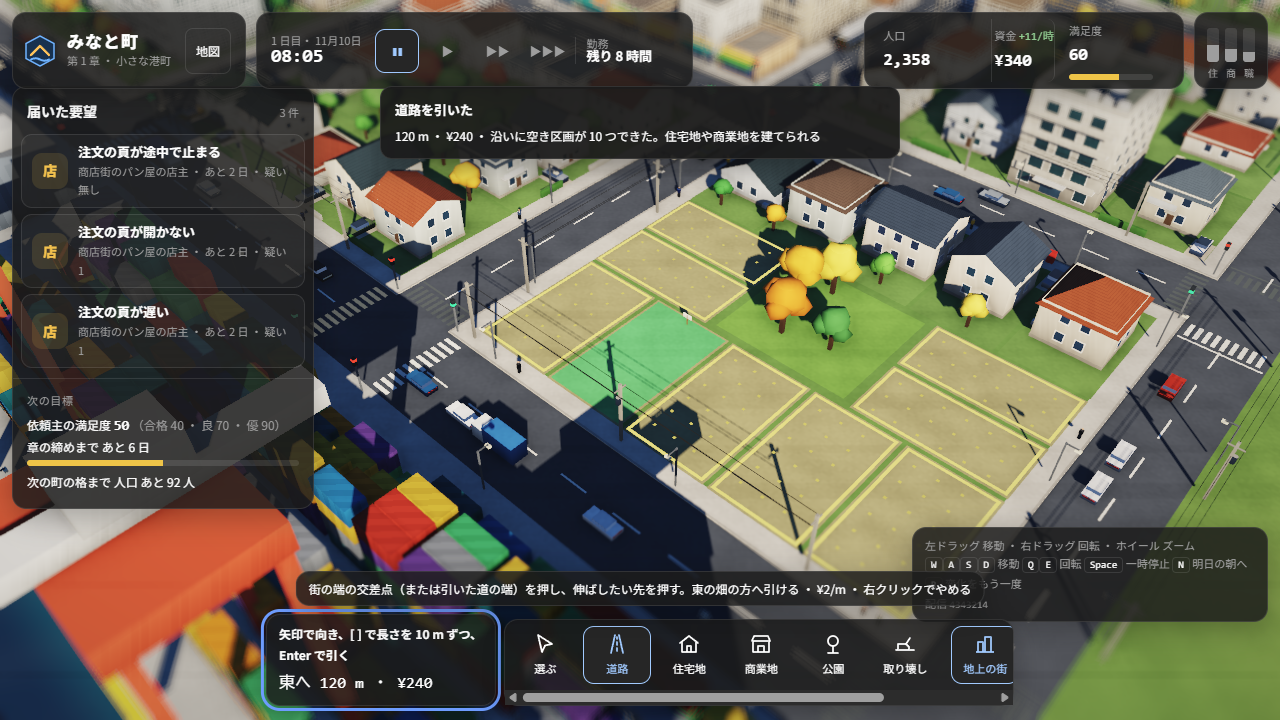
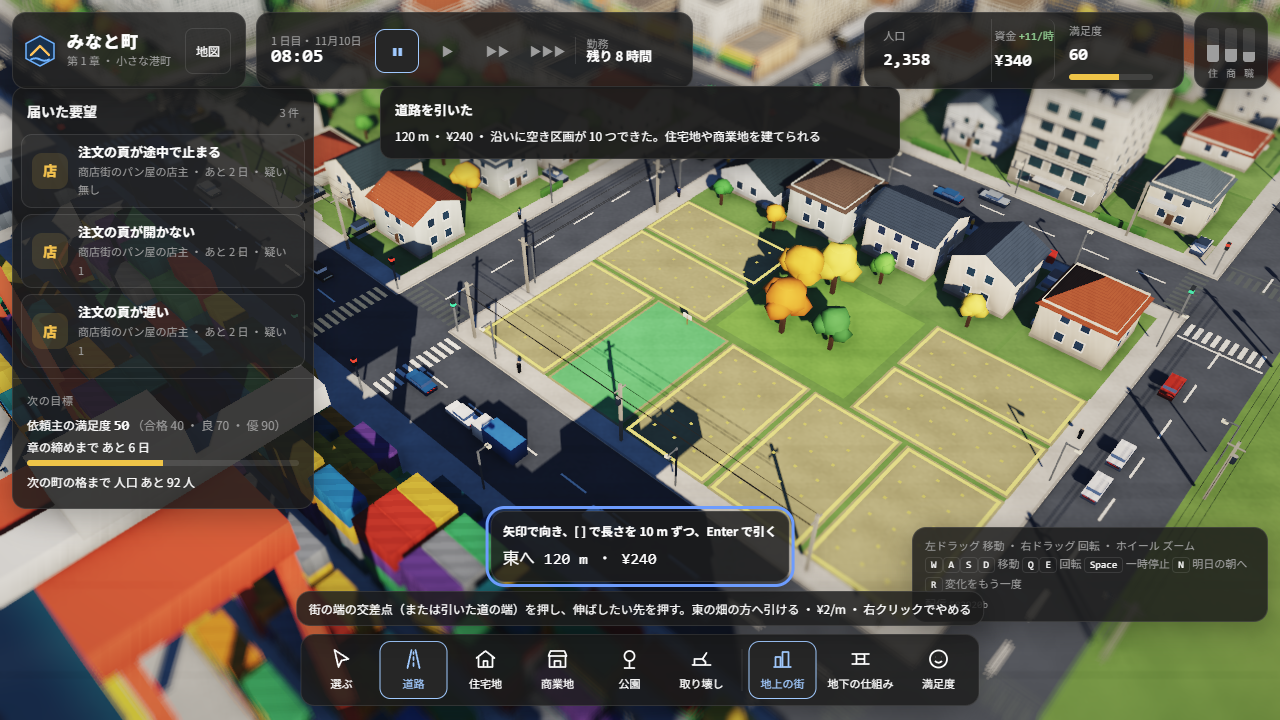
devlearn 段 8 の記録：8-2e（実機で 13 項目、city-standard.md の全項目に ○）・8-2f（利用者に見てほしい所）。利用者の指摘 2 件を済に

Changed region(s): [[0.1875, 0.7028, 0.8125, 1.0]]

diff --git a/devlearn/docs/progress/phase-8.md b/devlearn/docs/progress/phase-8.md
@@ -1,6 +1,24 @@
 # 段 8　ゲームの実装（港町）
 
-状態: **途中**（2026-11-11 に始めた）
+状態: **済**（2026-11-11 に始め、2026-11-12 に終えた）
+
+## 利用者に見てほしい所（8-2f。D-20 により止まらずに段 9 へ進んだ）
+
+- 公開 URL の街：<https://devlearn.techcurrybread.workers.dev/town>（トップと地図の「街で遊ぶ」、どの画面でも `G` で行ける）
+- 試作と本番を並べた 5 枚（左が試作、右が本番。`city-standard.md` 第 6 章の角度・時刻）：
+  `shots/phase-8-2e-all-pair.jpg`・`phase-8-2e-plaza-pair.jpg`・`phase-8-2e-harbor-pair.jpg`・`phase-8-2e-night-pair.jpg`・`phase-8-2e-infra-pair.jpg`
+- 携帯の幅（390×844）：`shots/phase-8-2e-mobile-check.png`（街）、`shots/phase-8-2f-mobile-req.png`（要望の板）
+- 見る観点：`city-standard.md` の章立て（1 絵・2 街の動き・3 ゲーム性・4 画面・5 重さ）。下の 8-2e の表に項目ごとの ○／× と確かめ方がある
+- 気づいたことは `docs/decisions.md` の「利用者の指摘」に `- [ ]` で書けば、次の実行が今の段より先に直す
+
+| 全景 | 地下の仕組み |
+|---|---|
+| ![](shots/phase-8-2e-all-pair.jpg) | ![](shots/phase-8-2e-infra-pair.jpg) |
+| 広場 | 港 |
+| ![](shots/phase-8-2e-plaza-pair.jpg) | ![](shots/phase-8-2e-harbor-pair.jpg) |
+| 夜 | 携帯の幅（要望の板） |
+| ![](shots/phase-8-2e-night-pair.jpg) | ![](shots/phase-8-2f-mobile-req.png) |
+
 
 8-2 は決まった順（8-2a → 8-2f）で進める（`plan.md`）。
 
@@ -13,8 +31,8 @@
 | 8-2b 状態の計算を描画から切り離す | 済（2026-11-11、`37cd6b7`〜`cdf5327`） |
 | 8-2c 本番の仕組みにする | 済（2026-11-11、`81f2444`〜`e055ec8`） |
 | 8-2d 検査を足す | 済（2026-11-11） |
-| 8-2e 実機で確かめる | まだ |
-| 8-2f 利用者の確認で止まる | まだ |
+| 8-2e 実機で確かめる | 済（2026-11-12、`cab89c2`〜`582920b`） |
+| 8-2f 利用者に見てもらう材料を残す | 済（2026-11-12。止まらない。D-20） |
 
 ## 8-1　設計の改訂
 
@@ -195,3 +213,102 @@
 - 15.8 の表の「7 日目の資金」は、8-1 の使い捨ての模擬が「8 日目 8:00 の資金から章の報酬を除いた額」を数えていた。同じ所で数えると、3 つの遊び方の下限・上限が全て一致した（948〜2,348・2,648〜6,648・4,648〜9,048）
 - 町の満足度の列は、表が基礎を全て 60 として数えたので、本番（基礎 55〜65）とは ±1 の幅で比べた（本番：61.7〜64.7・62.0〜66.5・62.8〜67.4）
 - 単体テストは全部で 1,302 件。`check`・`lint`・`content:check`・`secrets` が通る
+
+## 8-2e　実機で確かめる
+
+### 先に直した物（利用者の指摘、2026-11-12）
+
+- **街への入口**：トップに「街で遊ぶ：みなと町の町長になる」、地図に「街で遊ぶ：学んだ手を、みなと町の要望で使う」、全体の帯に「街」、街の上の帯に「地図」。
+  `G` は学習 ⇄ 街（街では地図へ、ほかでは街へ。screen-design.md 6 章・10.6）。テスト `src/lib/ui/entrances.test.ts`（先に落ちることを確かめてから直した）
+- **道具でカメラを動かさない**（D-19・V-14）：`setTool` の、道路で東の端へ・住宅地などで空き区画へ飛ぶ 2 行を外した。
+  要望を開いた・応えたときにその建物へ動くのは、指摘どおり残した。キーボードの区画の一覧で ↑↓ を押したときに区画へ動くのは、使う人の操作なので残した（10.6）
+
+### 作った物
+
+- `screen-design.md` 10.6 キーボードだけで道具を使う一覧（使える空き区画・道を引き始められる点。矢印で向き、`[` `]` で長さ、`Enter`）。街に焦点を置いて `Enter` で真ん中の建物を選ぶ
+- 10.7 動きを減らす設定（カメラの移動 0.4 秒、建つ様子は前と後の 2 枚を `--dl-motion-hold` ずつ、浮かぶ数は動かさず 2 秒、地下の流れと脈を止める、車・人・船は半分の速さ）
+- 10.8 WebGL2 が無い端末（描かない入れ物 `createNullEngine` で、状態・板・知らせはそのまま動く）
+- `scripts/look-town-check.ts`（手元の Chrome。CI では走らせない）。`scripts/look.ts` に足さず別の台本にした（下の「自分で決めたこと」）
+- 見つけて直した物：(1) 地下の仕組みで、受付中のパン屋が印に隠れて赤く見えなかった → 印を地下の表示で 14 m 上げ、足元を赤い枠で囲む。
+  (2) 1280 幅で、操作の案内が道具の帯に隠れていた → 帯の上へ。(3) キーボードの区画の一覧が道具の帯を押し広げ、帯が横に送れる形になっていた → 帯の上に重ねる
+
+### 確かめたこと（公開 URL `582920b`、手元の Chrome、2026-11-12）
+
+手元の機械：CPU Intel(R) Core(TM) i7-14700F ・ GPU NVIDIA GeForce RTX 4070 SUPER（Chrome は GPU で描く。1 コマの時間は頭のある窓で測った）
+
+`scripts/look-town-check.ts`（13 項目、全て OK）：
+
+| 項目 | 結果 |
+|---|---|
+| P-6 読み込みから街が見えるまで | 584 ms。その間「街を描いています」が見えた |
+| P-5 1280×720・既定のカメラ・昼・速さ 1、10 秒の平均 | 16.6 ms（95% 16.8 ms、601 コマ。画面の書き換えの速さ 60 Hz で頭打ち） |
+| S-2 1280×720 で上・要望・道具・操作の案内が重ならない | 重なり無し |
+| S-4 時間（Space・3、遊び方の板は Enter） | 速さ 3 → 一時停止 |
+| S-4 道具（住宅地 → 一覧 → ↓ → Enter で指定。一覧が帯と案内に重ならない） | OK（`shots/phase-8-2e-kbd-zone.png`） |
+| S-4 道路（始まりの点 → `]` 2 回 → Enter） | 東へ 120 m ・ ¥240 で引けた（`shots/phase-8-2e-kbd-road.png`） |
+| S-4 要望の板（Enter で開く → 手を打つ → Esc） | OK |
+| S-4 表示（地下の仕組み） | OK |
+| S-4 街に焦点を置いて Enter | マンションを選んだ |
+| S-5 動きを減らす設定で、建つ様子の前と後 | 前 0 → 後 1（`shots/phase-8-2e-rm-before.png`・`rm-after.png`） |
+| V-14 道具 6 つと表示 3 つを順に押す | 視点 `30,-10,0.75,0.52,260` のまま |
+| S-3 携帯の幅 | 重なり無し・道具の帯だけ横に送れる・画面は横に送らない（`shots/phase-8-2e-mobile-check.png`） |
+| P-4 WebGL2 を切った Chrome | その旨を出し、要望を開いて手を打てた（`shots/phase-8-2e-nogl.png`） |
+
+- `look-town-desk.ts`（8 項目、全て OK。`shots/phase-8-2f-*.png`）・`look-town-build.ts`（5 項目、全て OK）も同じ配信で流し直した
+- 5 枚（`shots/phase-8-2e-*-pair.jpg`）：試作との違いは、8-2c に書いた物（要望が第 15 章の 3 件・上の帯と次の目標の中身・試作に残る黒い四角）と、地下の仕組みで受付中の建物の足元の赤い枠。試作より落ちた所は無い
+- 単体テスト 1,306 件、`check`・`lint`・`content:check`・`secrets` が通る
+
+### `city-standard.md` の全項目
+
+| ID | 結果 | 確かめ方 |
+|---|---|---|
+| V-1 | ○ | 試作の engine と camera をそのまま移した（8-2a）。5 枚が試作と同じ角度で撮れる。減速つきの移動は 8-2c の「応えた」で撮った |
+| V-2 | ○ | 全景・広場・港で建物・木・車の影（`phase-8-2e-all-pair.jpg` ほか） |
+| V-3 | ○ | 広場で建物の足元と壁の隅が暗い（`plaza-pair`） |
+| V-4 | ○ | 全景で遠くの丘が霞む。雲の影（`all-pair`） |
+| V-5 | ○ | 昼（全景）・夕（港 16:40）・夜（窓・街灯・にじみ。`night-pair`）。朝は 8-2c の 1 日目 8:00 の撮影 |
+| V-6 | ○ | 港で水の照り返しと岸の泡（`harbor-pair`） |
+| V-7 | ○ | `gen.test.ts`（種類の全て）と全景・広場・港の撮影 |
+| V-8 | ○ | 広場・港の近景で窓の枠・屋上の設備・室外機。夜の窓は建物ごとの値で決まり、ちらつかない（試作と同じ） |
+| V-9 | ○ | 広場・港で車線・横断歩道・停止線・信号・電柱と電線 |
+| V-10 | ○ | 全景で丘の森・畑。地面の色むら |
+| V-11 | ○ | 港でクレーン・コンテナ・船・岸壁 |
+| V-12 | ○ | 選んだ建物の光る縁（8-2c）。街に焦点を置いて Enter で選んだ（S-4） |
+| V-13 | ○ | 広場（近景）で上下がぼけ、全景では弱い |
+| V-14 | ○ | `look-town-check.ts`（上の表） |
+| L-1〜L-3 | ○ | 試作の車・人・船・旗の動きをそのまま移した（8-2a）。5 枚で車と船が動いている（違う点の多くは車の位置） |
+| L-4 | ○ | 一時停止で速さ 0 を掛けるので、車・人・船が止まる（`frame` の `vm`）。速さ 1〜3 は 8-2a のまま |
+| L-5 | ○ | `pure.test.ts`（状態の側に乱数と実時間が無い） |
+| G-1 | ○ | S-4 の時間の項目 |
+| G-2 | ○ | 上の帯（人口・資金と 1 時間の収支・満足度の棒・需要）。資金の内訳は 8-2b・8-2c で確かめた |
+| G-3 | ○ | `look-town-desk.ts`「始まり」 |
+| G-4 | ○ | `look-town-desk.ts`「要望の板」・`phase-8-2f-req.png` |
+| G-5 | ○ | `look-town-desk.ts`「学んだ手で直すと…建つ」・`phase-8-2f-system.png`（変化をもう一度・地下の仕組みで見る） |
+| G-6 | ○ | `infra-pair`：受付中の建物が赤、直すと分野の色（`phase-8-2f-infra-desk.png`） |
+| G-7 | ○ | 満足度の表示（8-2a から同じ。凡例に 3 段） |
+| G-8・G-8b | ○ | `look-town-build.ts`（指定 → 建つ → 道路 → 引けない理由） |
+| G-9 | ○ | 建物を選んだ板（8-2c） |
+| G-10・G-10b | ○ | `town.test.ts`（仕組みの建物につなぐ・分野の色）。8-2c で記録 |
+| G-11 | ○ | 期限切れ −5 を依頼主の建物から 100 m 以内の建物に足す（`town.ts` の `addNear`、`town.test.ts`） |
+| G-12 | ○ | 初めて開くと遊び方の板（`look-town-check.ts` で Enter で閉じた） |
+| S-1〜S-5 | ○ | 上の表 |
+| P-1 | ○ | `gen.test.ts`（703,104）・`engine.test.ts`（17 回） |
+| P-2・P-3 | ○ | 試作の engine と動く物の入れ物をそのまま移した（8-2a） |
+| P-4〜P-6 | ○ | 上の表 |
+
+## 8-2f　利用者に見てもらう材料を残す
+
+- この頁の先頭に「利用者に見てほしい所」と並べた画像を置いた。D-20 により止まらずに段 9 へ進む
+
+## 段 8 の完成条件
+
+| # | 完成条件 | 結果 |
+|---|---|---|
+| 1 | 同じ種で 2 回流して同じ結果 | ○ `replay.test.ts`・`look-town-build.ts` |
+| 2 | 状態を決める処理に乱数と実時間が無い | ○ `pure.test.ts` |
+| 3 | 数字が動いたとき「なぜ動いたか」が平易な言葉で出る | ○ 資金の内訳と出入り、手の理由の文、結果の知らせ（8-2c） |
+| 4 | 起きた変化を動きで見せ、繰り返し見返せる | ○ 建つ様子は状態の「建ち始めた分」から描き、「変化をもう一度」（`R`）で描き直す |
+| 5 | 公開 URL の街が `city-standard.md` の全項目を満たす | ○ 上の表 |
+| 6 | 試作と同じ角度・時刻の 5 枚で、見劣りする項目が無い | ○ |
+| 7 | 1 コマの時間が P-5 を満たし、携帯の幅で操作できる | ○ 16.6 ms。携帯の幅で要望の板から手を打てた |
+| 8 | 利用者に見てもらう材料を残した。「利用者の指摘」に未対応が無い | ○ |

diff --git a/devlearn/docs/decisions.md b/devlearn/docs/decisions.md
@@ -200,15 +200,20 @@
 
 利用者が書く欄。実行は毎回の最初にここを読み、未対応（[ ]）の物を今の段より先に直す。直したら [x] にし、どう直したかを書き添える。
 
-- [ ] 2026-11-12　トップ画面から街（`/town`）へ行く入口が無い。トップと地図に「街で遊ぶ」の入口を足す（段 9 を待たずに直す）
-- [ ] 2026-11-12　道具（道路・住宅地など）を押すとカメラが自動で動く。動かさない（D-19、`city-standard.md` V-14）。
+- [x] 2026-11-12　トップ画面から街（`/town`）へ行く入口が無い。トップと地図に「街で遊ぶ」の入口を足す（段 9 を待たずに直す）
+  → 直した（`cab89c2`）：トップと地図に「街で遊ぶ」、全体の帯に「街」、街の上の帯に「地図」。`G` で学習 ⇄ 街。`entrances.test.ts`
+- [x] 2026-11-12　道具（道路・住宅地など）を押すとカメラが自動で動く。動かさない（D-19、`city-standard.md` V-14）。
   要望を開いた・応えたときにその建物へカメラが動くのは、今のままでよい
+  → 直した（`cab89c2`）：`setTool` のカメラを飛ばす 2 行を外した。道具 6 つと表示 3 つを順に押して視点が変わらないことを `look-town-check.ts` で確かめた
 
 ## 自分で決めたこと
 
 仕様書で決まっていなかった細部を、実行が自分で決めた記録。1 件 1〜3 行。「何を・どう決めたか・理由（どの仕様書のどこに沿ったか）」。
 
-（まだ無い）
+- 2026-11-12　街の実機の確かめは `scripts/look.ts` に足さず、`scripts/look-town-check.ts` に分けた。理由：学習の画面の撮影と Chrome の起こし方（GPU・頭の有無・WebGL を切る）が違い、1 つにすると長くなる。Chrome を操る部分は `scripts/lib/cdp.ts` を共に使う（plan.md 8-2e の「手元の Chrome で公開 URL を開く。CI では走らせない」に沿う）
+- 2026-11-12　`G` は「街では地図へ、ほかでは街へ」にした。screen-design.md 6 章・10.6 の「学習 ⇄ 街」を、学習の入口が地図であることに合わせて読んだ
+- 2026-11-12　地下の仕組みでは、要望の印を 14 m 上げ、受付中の建物の足元を赤い枠で囲む。理由：パン屋が店の並びの細い建物で、印に隠れて赤が見えなかった（G-6「混んでいる所は赤く脈打つ」を満たすため）
+- 2026-11-12　P-5 の 1 コマの時間は、頭のある Chrome の窓（隠れても描くようにした）で測る。頭の無い Chrome は画面の書き換えに合わせないため、利用者の PC の見え方に近い方を取った
 
 ## 未決
 
